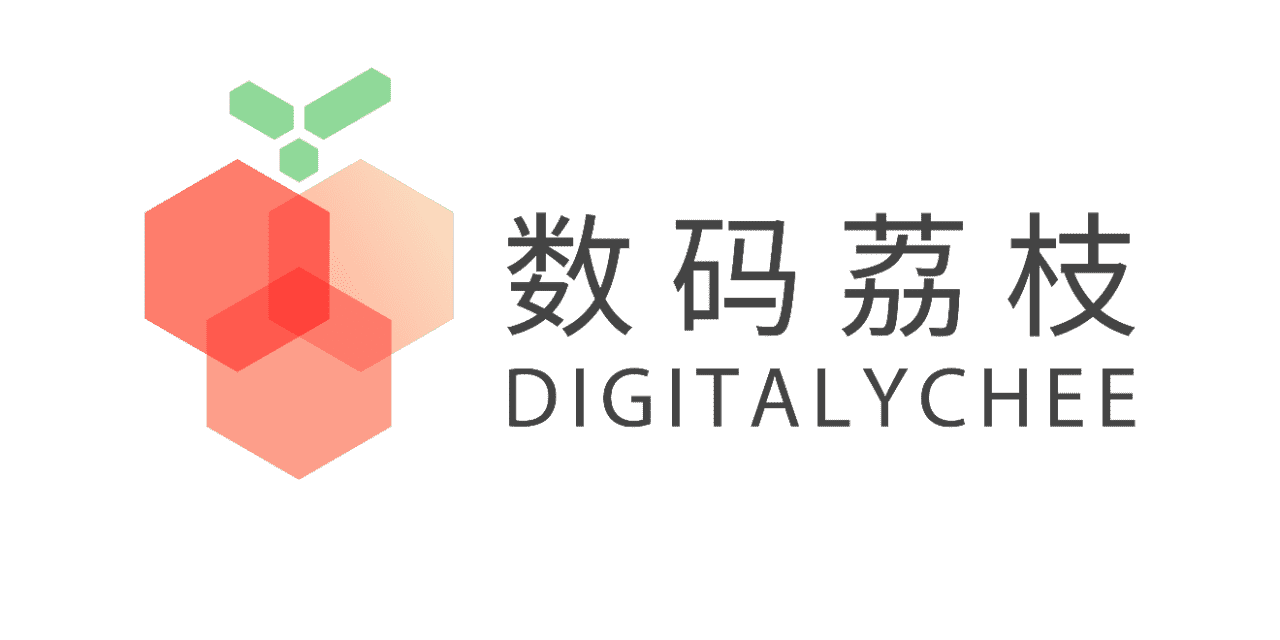
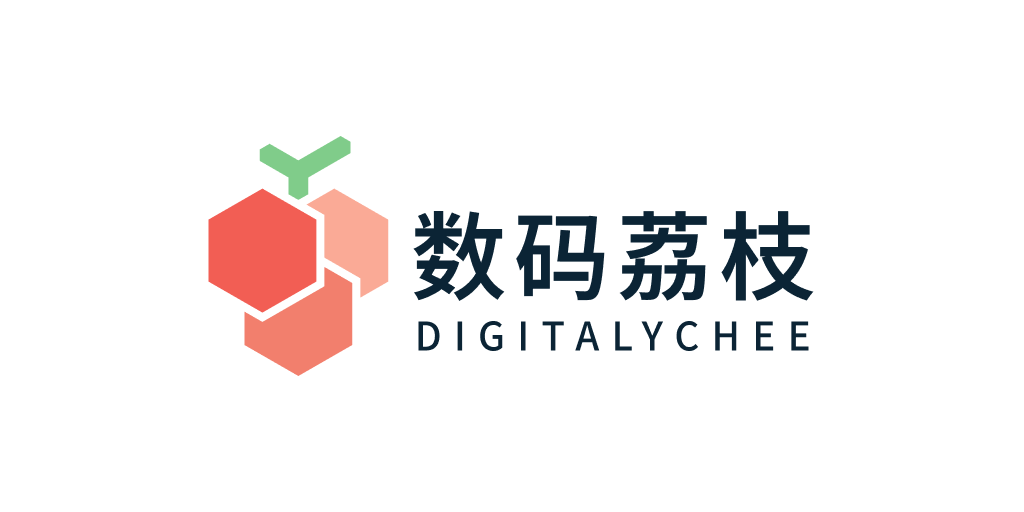
更新数码荔枝授权页模板

Changed region(s): [[0.0938, 0.0938, 0.9062, 0.75]]

diff --git a/src/.vuepress/styles/style.less b/src/.vuepress/styles/style.less
@@ -341,7 +341,15 @@ a.sidebar-link {
     img {
         display: block;
         margin: 0 auto;
+        max-width: 100%;
+        height: auto;
     }
+}
+
+.theme-container.lizhi .theme-antdocs-content:not(.custom) .lizhi img {
+    width: 400px;
+    max-width: 100%;
+    height: auto;
 }
 
 .articles {

diff --git a/.codex/sessions/2026/05/2026-05-13_11-01-26_update-digitalychee-reseller-page.md b/.codex/sessions/2026/05/2026-05-13_11-01-26_update-digitalychee-reseller-page.md
@@ -1,0 +1,89 @@
+---
+title: "update digitalychee reseller page"
+created_at: "2026-05-13T11:01:26.983135+08:00"
+agent: "Codex"
+workspace_root: "/Users/lixindong/ThirdPartyProjects/cleanclip-vuepress"
+session_path: "/Users/lixindong/ThirdPartyProjects/cleanclip-vuepress/.codex/sessions/2026/05/2026-05-13_11-01-26_update-digitalychee-reseller-page.md"
+git_repo: true
+branch: "main"
+head_before_commit: "0a89b3b"
+---
+
+# Session Record
+
+## Request
+
+Update the Digitalychee reseller authorization page from the provided DOCX template, then commit and push the completed work.
+
+## Constraints
+
+- Follow the repository instruction to think from first principles and keep changes minimal.
+- Preserve unrelated workspace changes and only stage files for this request.
+- Use the new reseller template at `/Users/lixindong/Downloads/(CleanClip) Developer Reseller Page.docx`.
+- Request the Bark notification endpoint when execution ends.
+
+## Decisions
+
+- Update both reseller pages: `/lizhi.html` from `src/lizhi.md` and `/zh/lizhi.html` from `src/zh/lizhi.md`.
+- Replace the old Digitalychee logo asset with the single PNG embedded in the DOCX.
+- Keep the authorization page simple and aligned with the DOCX copy, while making the sales channels clickable links.
+- Add a page-specific responsive image rule because the global content image rule caps images at 400px and otherwise caused mobile overflow.
+
+## Work Performed
+
+- Extracted the DOCX text and embedded PNG.
+- Replaced `src/.vuepress/public/images/lizhi.png` with the new 1024 x 512 Digitalychee logo.
+- Updated `src/lizhi.md` and `src/zh/lizhi.md` with the new bilingual authorization copy.
+- Removed the old authorization target wording that referenced `上海立七数码科技有限公司` and `DIGITALYCHEE TECHNOLOGY CO, LTD`.
+- Updated `src/.vuepress/styles/style.less` so the reseller page logo renders at 400px on desktop and shrinks within its container on narrow screens.
+
+## Key Exchanges
+
+- User provided the repository instructions, including the end-of-execution notification URL.
+- User relayed the reseller request: update `https://cleanclip.cc/lizhi.html` using the new DOCX template, reflecting the updated logo/copy and keeping only the Digitalychee brand name.
+- Agent inspected the existing reseller pages and DOCX, implemented the content/logo/style updates, built the site, and verified desktop/mobile rendering locally.
+- User then asked: "提交并上传".
+
+## Workspace Snapshot
+
+- workspace root: `/Users/lixindong/ThirdPartyProjects/cleanclip-vuepress`
+- session file: `/Users/lixindong/ThirdPartyProjects/cleanclip-vuepress/.codex/sessions/2026/05/2026-05-13_11-01-26_update-digitalychee-reseller-page.md`
+- git repo: `yes`
+- branch: `main`
+- HEAD before commit: `0a89b3b`
+
+### git status --short
+
+```text
+ M src/.vuepress/public/images/lizhi.png
+ M src/.vuepress/styles/style.less
+ M src/lizhi.md
+ M src/zh/lizhi.md
+?? .codex/
+```
+
+### git diff --stat
+
+```text
+ src/.vuepress/public/images/lizhi.png | Bin 15171 -> 20607 bytes
+ src/.vuepress/styles/style.less       |  10 +++++++++-
+ src/lizhi.md                          |  36 ++++++++++++----------------------
+ src/zh/lizhi.md                       |  36 ++++++++++++----------------------
+ 4 files changed, 33 insertions(+), 49 deletions(-)
+```
+
+## Validation
+
+- Ran `NODE_OPTIONS=--openssl-legacy-provider pnpm build`; VuePress generated static files successfully in `src/.vuepress/dist`.
+- Served the generated site locally and verified `/lizhi.html` and `/zh/lizhi.html` with Playwright.
+- Confirmed the new brand text and authorized sales channels render on both pages.
+- Confirmed old reseller company wording is absent.
+- Confirmed the reseller logo renders at 400 x 200 on desktop and shrinks to 310 x 155 on a 390px-wide mobile viewport.
+- Observed local-only CORS console errors from `https://clip-purchase.macaify.com/config`, unrelated to the reseller page update.
+- Requested the configured Bark notification endpoint and received `{"code":200,"message":"success"}`.
+
+## Commit
+
+- message: `更新数码荔枝授权页模板`
+- hash: recorded in `git show --stat --oneline -1` after commit creation
+- result: pending commit at the time this session log was staged

diff --git a/src/zh/lizhi.md b/src/zh/lizhi.md
@@ -6,38 +6,26 @@ canonicalUrl: 'https://cleanclip.cc/zh/lizhi'
 
 <div class="lizhi text-center">
 
+![数码荔枝 DIGITALYCHEE](/images/lizhi.png)
+
 ## 授权证明
 
-**CleanClip 团队** 授权 **上海立七数码科技有限公司** 为大中国区官方合作伙伴，
+## Authorization Certificate
 
-并享有本公司旗下正版软件 **CleanClip** 在中国的销售资质。
+**南京最美佳科技有限公司** 授权 **「数码荔枝」** 为大中国区官方合作伙伴
 
-该合作伙伴旗下店铺域名或名称中均包含商标 **数码荔枝** 或 **DIGITALYCHEE**，
+We authorize **DIGITALYCHEE** as our official partner in China
 
-对应店铺网址为 **digitalychee**.taobao.com / **lizhi.shop**。
+负责以下软件在中国的销售事宜
 
-请勿在其他未经授权的网站购买我们的软件。
+Responsible for the sales of the following product(s)
 
-我们不再为这样的顾客提供任何售后服务，
+**CleanClip**
 
-包括：密钥找回、版本更新、技术支持。
+该合作伙伴的销售渠道
 
-![alt text](/images/lizhi.png)
+Authorized Sales Channels
 
-## AUTHORIZATION CERTIFICATE
-
-We, the development team of **CleanClip**
-
-authorizes **DIGITALYCHEE TECHNOLOGY CO, LTD** as our official partner in China,
-
-and it owns the right to sell the copyrighted software of us on their stores:
-
-**digitalychee**.taobao.com / **lizhi.shop**
-
-Please don't purchase our product(s) from any other unauthorized websites.
-
-Customers who purchase from them are not allowed to enjoy the official customer support,
-
-including license retrieval, version update, tech assistance.
+**[lizhi.shop](https://lizhi.shop)** / **[digitalychee.taobao.com](https://digitalychee.taobao.com)**
 
 </div>

diff --git a/src/lizhi.md b/src/lizhi.md
@@ -6,38 +6,26 @@ canonicalUrl: 'https://cleanclip.cc/lizhi'
 
 <div class="lizhi text-center">
 
+![数码荔枝 DIGITALYCHEE](/images/lizhi.png)
+
 ## 授权证明
 
-**CleanClip 团队** 授权 **上海立七数码科技有限公司** 为大中国区官方合作伙伴，
+## Authorization Certificate
 
-并享有本公司旗下正版软件 **CleanClip** 在中国的销售资质。
+**南京最美佳科技有限公司** 授权 **「数码荔枝」** 为大中国区官方合作伙伴
 
-该合作伙伴旗下店铺域名或名称中均包含商标 **数码荔枝** 或 **DIGITALYCHEE**，
+We authorize **DIGITALYCHEE** as our official partner in China
 
-对应店铺网址为 **digitalychee**.taobao.com / **lizhi.shop**。
+负责以下软件在中国的销售事宜
 
-请勿在其他未经授权的网站购买我们的软件。
+Responsible for the sales of the following product(s)
 
-我们不再为这样的顾客提供任何售后服务，
+**CleanClip**
 
-包括：密钥找回、版本更新、技术支持。
+该合作伙伴的销售渠道
 
-![alt text](/images/lizhi.png)
+Authorized Sales Channels
 
-## AUTHORIZATION CERTIFICATE
-
-We, the development team of **CleanClip**
-
-authorizes **DIGITALYCHEE TECHNOLOGY CO, LTD** as our official partner in China,
-
-and it owns the right to sell the copyrighted software of us on their stores:
-
-**digitalychee**.taobao.com / **lizhi.shop**
-
-Please don't purchase our product(s) from any other unauthorized websites.
-
-Customers who purchase from them are not allowed to enjoy the official customer support,
-
-including license retrieval, version update, tech assistance.
+**[lizhi.shop](https://lizhi.shop)** / **[digitalychee.taobao.com](https://digitalychee.taobao.com)**
 
 </div>
